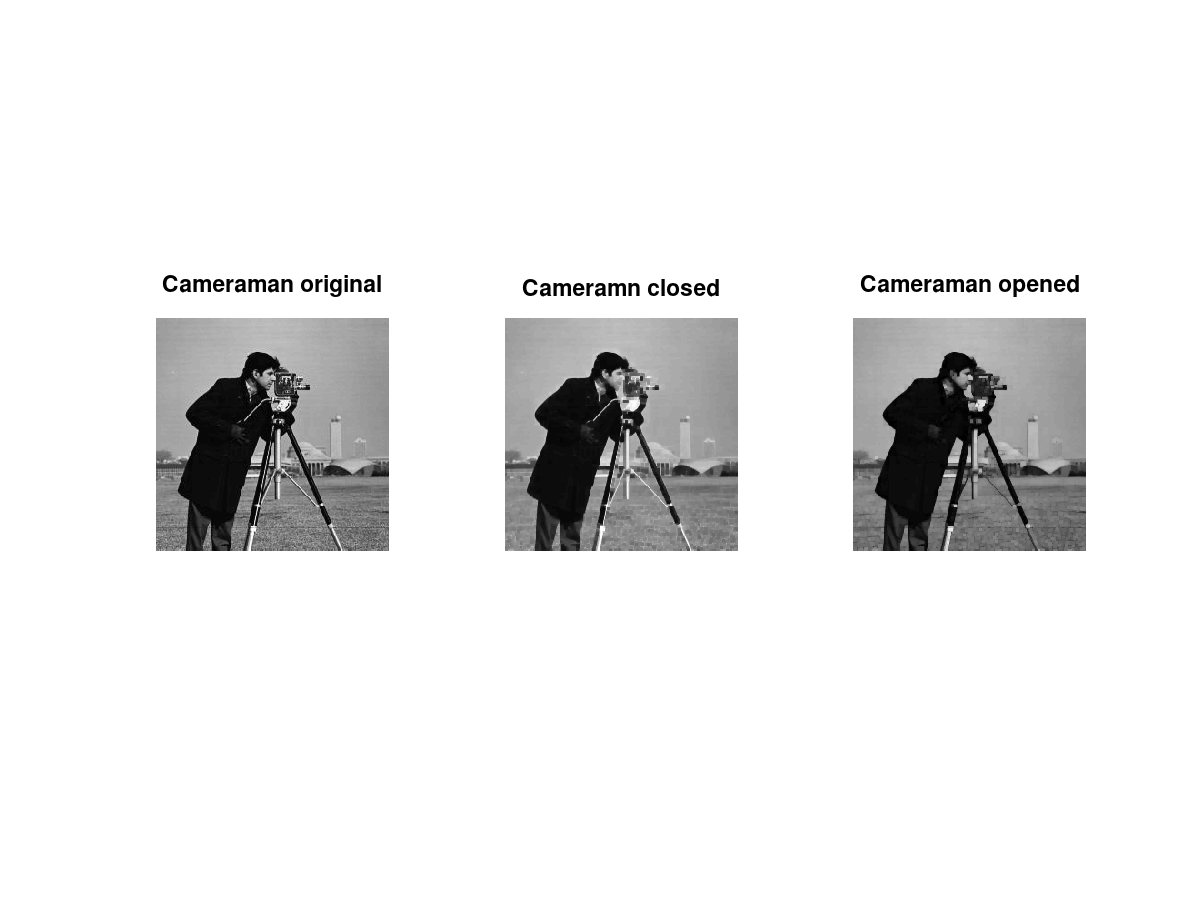
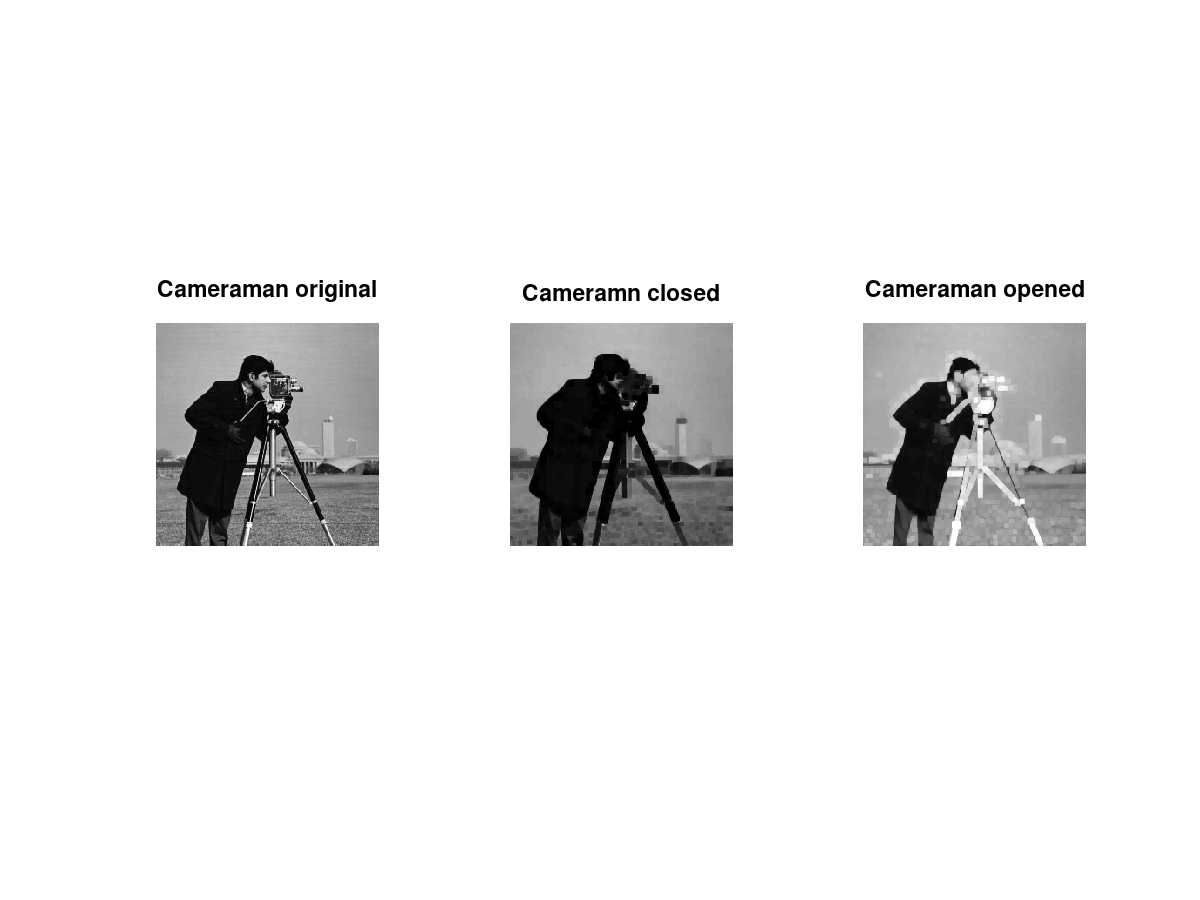
:sparkles: Add different shapes for strel
* :truck: Renamed some variables.

diff --git a/TP4/tp4.m b/TP4/tp4.m
@@ -9,52 +9,83 @@ pkg load image
 [cameraman, map_cameraman, alpha_cameraman] = imread("data/cameraman.jpg");
 
 function [im_erode, im_dilate] = erode_dilate(im, strel_size, strel_shape = "square", shape = "same")
-	im_erode = 255-imerode(255-im, strel(strel_shape, strel_size), shape);
-	im_dilate = 255-imdilate(255-im, strel(strel_shape, strel_size), shape);
+	if (strcmp(strel_shape, "disk") == 1)
+		im_erode = 255-imerode(255-im, strel(strel_shape, strel_size, 0), shape);
+		im_dilate = 255-imdilate(255-im, strel(strel_shape, strel_size, 0), shape);
+	else
+		im_erode = 255-imerode(255-im, strel(strel_shape, strel_size), shape);
+		im_dilate = 255-imdilate(255-im, strel(strel_shape, strel_size), shape);
+	endif
 endfunction
 
-[cameraman_erode, cameraman_dilate] = erode_dilate(cameraman, 3);
+[cameraman_erode_square_3, cameraman_dilate_square_3] = erode_dilate(cameraman, 3);
 
 figure;
 subplot(1, 3, 1);
 imshow(cameraman);
 title("Cameraman original");
 subplot(1, 3, 2);
-imshow(cameraman_erode);
+imshow(cameraman_erode_square_3);
 title("Cameramn eroded");
 f = subplot(1, 3, 3);
-imshow(cameraman_dilate);
+imshow(cameraman_dilate_square_3);
 title("Cameraman dilated");
-saveas(f, "output/cameraman_erode_dilate.png");
+saveas(f, "output/cameraman_erode_dilate_square_3.png");
 
 # Impact of strel size
 
-[cameraman_erode_5, cameraman_dilate_5] = erode_dilate(cameraman, 5);
-[cameraman_erode_10, cameraman_dilate_10] = erode_dilate(cameraman, 10);
+[cameraman_erode_square_5, cameraman_dilate_square_5] = erode_dilate(cameraman, 5);
+[cameraman_erode_square_10, cameraman_dilate_square_10] = erode_dilate(cameraman, 10);
 
 figure;
 subplot(3, 2, 1);
-imshow(cameraman_erode);
+imshow(cameraman_erode_square_3);
 title("Cameramn eroded 3x3");
 subplot(3, 2, 2);
-imshow(cameraman_dilate);
+imshow(cameraman_dilate_square_3);
 title("Cameraman dilated 3x3");
 subplot(3, 2, 3);
-imshow(cameraman_erode_5);
+imshow(cameraman_erode_square_5);
 title("Cameramn eroded 5x5");
 subplot(3, 2, 4);
-imshow(cameraman_dilate_5);
+imshow(cameraman_dilate_square_5);
 title("Cameraman dilated 5x5");
 subplot(3, 2, 5);
-imshow(cameraman_erode_10);
+imshow(cameraman_erode_square_10);
 title("Cameramn eroded 10x10");
 f = subplot(3, 2, 6);
-imshow(cameraman_dilate_10);
+imshow(cameraman_dilate_square_10);
 title("Cameraman dilated 10x10");
-saveas(f, "output/cameraman_erode_dilate_3_5_10.png");
+saveas(f, "output/cameraman_erode_dilate_square_3_5_10.png");
 
-cameraman_fermeture = imerode(cameraman_dilate, strel("square", 3), 'same');
-cameraman_ouverture = imdilate(cameraman_erode, strel("square", 3), 'same');
+# Impact of strel shape
+
+[cameraman_erode_diamond_5, cameraman_dilate_diamond_5] = erode_dilate(cameraman, 5, "diamond");
+[cameraman_erode_disk_5, cameraman_dilate_disk_5] = erode_dilate(cameraman, 5, "disk");
+
+figure;
+subplot(3, 2, 1);
+imshow(cameraman_erode_square_5);
+title("Cameraman, eroded (square, 5x5)");
+subplot(3, 2, 2);
+imshow(cameraman_dilate_square_5);
+title("Cameraman, dilated (square, 5x5)");
+subplot(3, 2, 3);
+imshow(cameraman_erode_diamond_5);
+title("Cameraman, eroded (diamond, 5x5)");
+subplot(3, 2, 4);
+imshow(cameraman_dilate_diamond_5);
+title("Cameraman, dilated (diamond, 5x5)");
+subplot(3, 2, 5);
+imshow(cameraman_erode_disk_5);
+title("Cameraman, eroded (disk, 5x5)");
+subplot(3, 2, 6);
+imshow(cameraman_dilate_disk_5);
+title("Cameraman, dilated (disk, 5x5)");
+saveas(f, "output/cameraman_square_diamond_disk_5.png");
+
+cameraman_fermeture = imerode(cameraman_dilate_square_3, strel("square", 3), 'same');
+cameraman_ouverture = imdilate(cameraman_erode_square_3, strel("square", 3), 'same');
 
 figure;
 subplot(1, 3, 1);

diff --git a/TP4/TP4.md b/TP4/TP4.md
@@ -9,7 +9,13 @@
 
 ### 1 - Fermeture
 
+![](output/cameraman_erode_dilate.png)
 
+![](output/cameraman_erode_dilate_3_5_10.png)
+
+![](output/cameraman_erode_dilate_3_5_10.png)
+
+![](output/cameraman_square_diamond_disk_5.png)
 
 ### 2 - Contours
 
